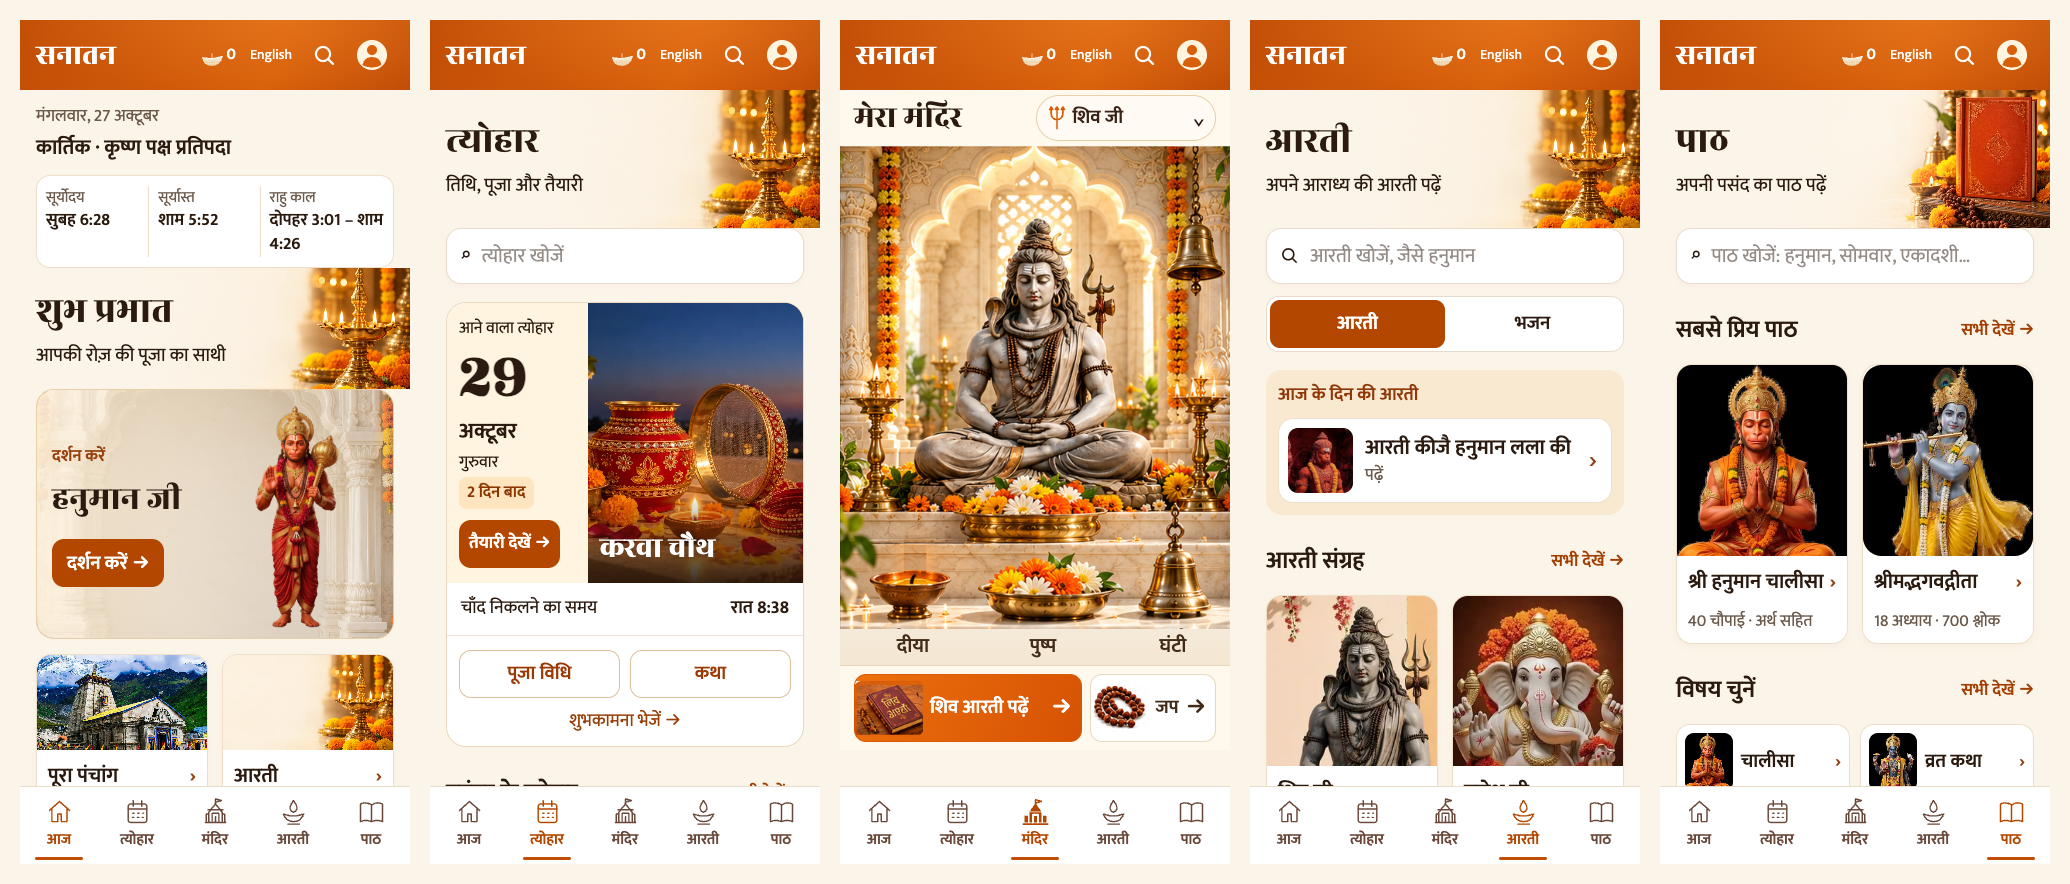
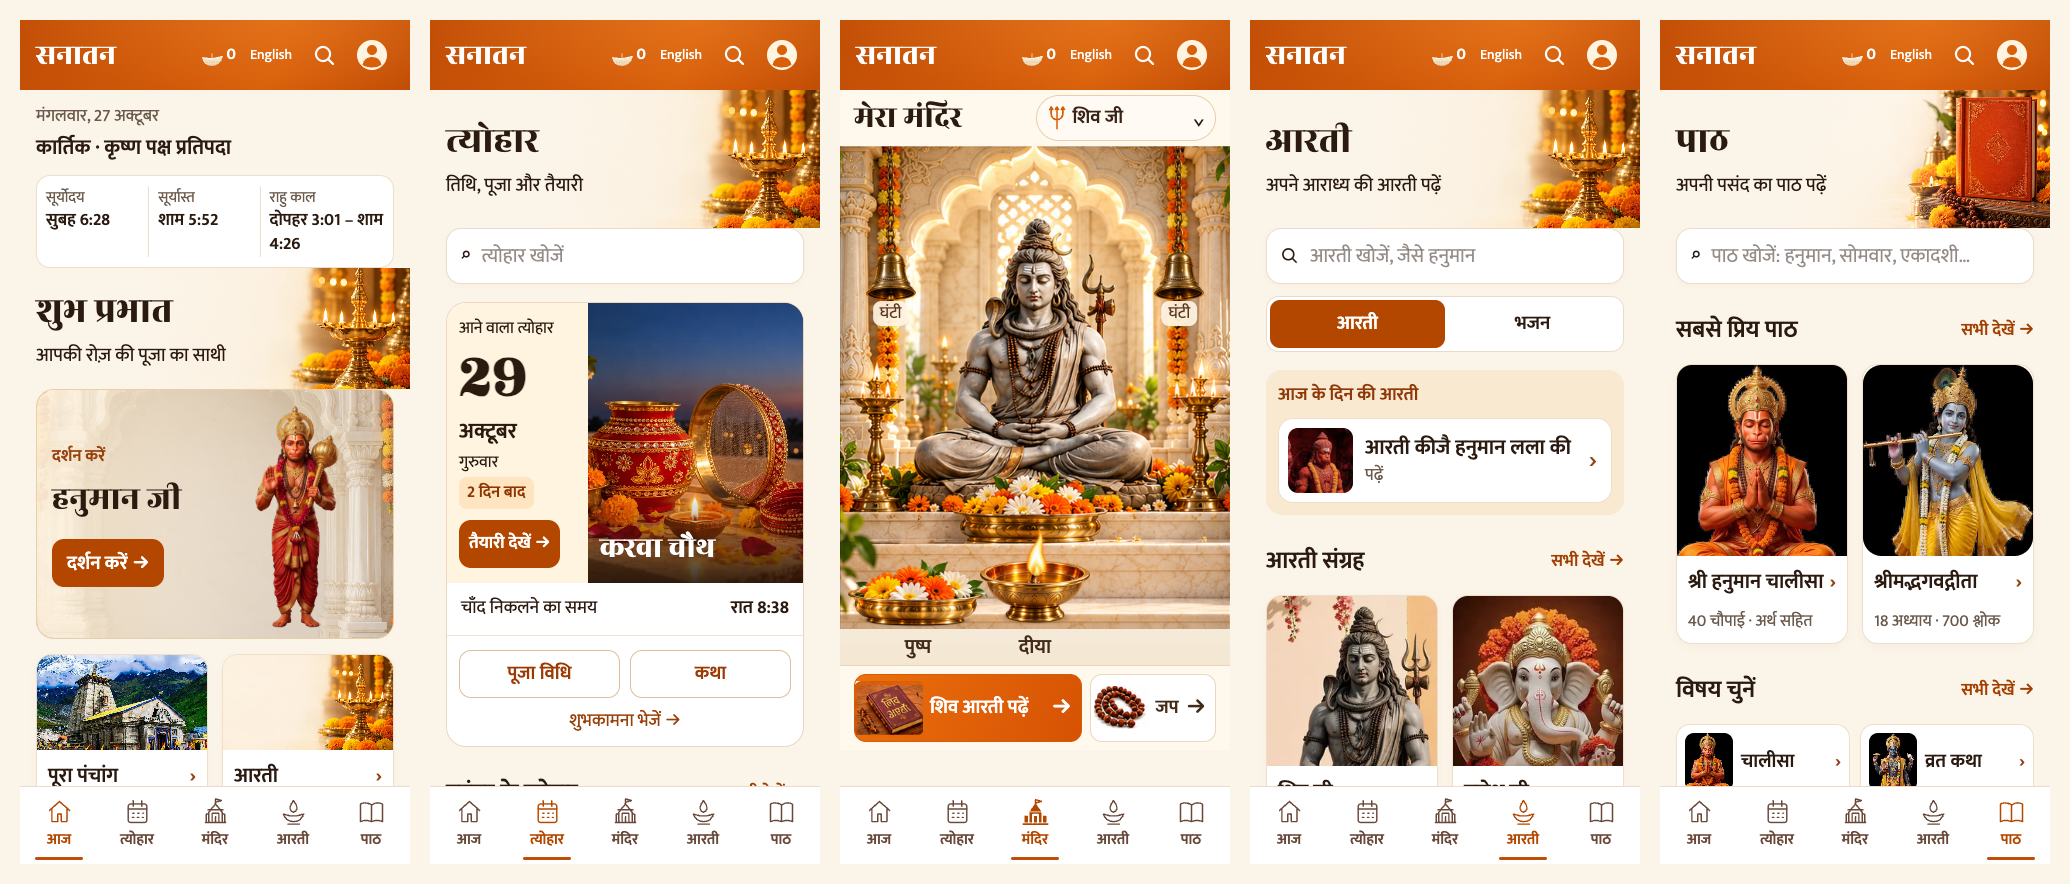
Update offering review board and offline verification

Changed region(s): [[0.4019, 0.5803, 0.5874, 0.733], [0.5565, 0.1527, 0.5874, 0.3665], [0.4019, 0.2443, 0.4638, 0.3665]]

diff --git a/docs/redesign/HANDOFF.md b/docs/redesign/HANDOFF.md
@@ -29,7 +29,7 @@ No devotional text changed. The deity catalogue adds only an optional shrineScen
 
 Still missing from the original catalogue: Durga and Khatu weekday sets; seven day-wise Shivling pictures (the existing placeholder remains); individual pictures for Shani, Santoshi, Saraswati and other reader deities that currently show a diya; improved real photos for several temple pages. Gita meanings remain the original chapters 2 and 12 only. The dated festival dataset ends on 24 November 2026; future festivals require independently checked content, not fabricated dates.
 
-The build retains its existing large-main-bundle warning (~1.7 MB). Offline caching now includes WebP and full card photos, so the first complete offline download is ~45 MB. After installation the daily cards and share rendering work without the network. External YouTube playback still requires connectivity and a user tap.
+The build retains its existing large-main-bundle warning (~1.7 MB). Offline caching now includes WebP and full card photos, so the first complete offline download is ~50 MB. After installation the daily cards and share rendering work without the network. External YouTube playback still requires connectivity and a user tap.
 
 Native file sharing depends on browser support. Desktop fallback saves the card, then presents an explicit WhatsApp link and attachment instruction. Actual transmission remains the user's action.
 
@@ -42,3 +42,9 @@ Every stage was checked with Node 22 TypeScript, Vitest and production build. Fi
 Two reconstructions diverged from option 5. The current Today/Mandir stage uses the actual approved scene, with original Shiva pixels, architecture and foreground objects preserved. Native labels and hit areas operate the diya, flowers and bell. The unlit state changes only the front flame region; six daily variants change only a narrow decorative flower strip, and Monday preserves the full approved scene. Aarti and Jap thumbnails also come from the approved reference.
 
 Original deity fields, daily cutouts and safe share-card photos remain unchanged. See `mandir-fidelity/comparison.png`, README, pixel-verification.json and artwork-edits.json. The earlier `mandir-correction` folder is historical rejected evidence. The correction is included in branches 3, 4 and 5 before PR publication. Corrected stages pass TypeScript, their 11 / 15 / 20 tests and production builds; the final scene and diya state also work offline.
+
+## Natural offerings approved by Ayush
+
+The diya moves to the centre and the flower thali to the left. Two matching hanging bells replace the tabletop bell. Lighting grows from the wick before the corner lamps fade on; both bells swing and retain the existing sound/action. Falling and settled orange/yellow/white flower pieces now use matching photographic textures. Reloads preserve offerings without replaying the entry effects, and reduced motion shows the completed state. The original Shiva pixels are verified unchanged across seven weekday scenes.
+
+See `mandir-offerings/comparison.png`, `interaction.gif` and README for before/after, the recorded interaction, artwork prompts and verification. Production assets are in `public/art/redesign/mandir-offerings-v2/`. The optional scene metadata adds only a `base` path. Corrected review stages 3/4/5 include this refinement. All existing devotional content, storage keys and sharing sources remain unchanged.

diff --git a/docs/redesign/pr-5/README.md b/docs/redesign/pr-5/README.md
@@ -14,6 +14,6 @@ Final consistency fixes keep the city selector in Profile, retain saved-city cal
 - Browser: morning, festival, shloka, temple and 21-day milestone image previews; PNG native sharing; cancelled share; daily-sheet preview and return; and automatic Karwa Chauth greeting on 29 October 2026 passed. No actual messages were sent; browser sharing was stubbed for these checks.
 - Offline production PWA: morning and festival cards regenerated with the network disabled.
 - Phone screenshots include before/after morning and festival screens and the new shloka, temple and milestone previews. Exported card samples are also included.
-- Main bundle remains approximately 1.7 MB; full offline installation about 45 MB. Existing content gaps and picture gaps are summarized in `../HANDOFF.md`.
+- Main bundle remains approximately 1.7 MB; full offline installation about 50 MB. Existing content gaps and picture gaps are summarized in `../HANDOFF.md`.
 
 Depends on PRs 1–4 in order; target `app-source`. No devotional text, existing storage keys, deployments or hosting changed. The inherited Mandir correction adds only its optional scene metadata.
